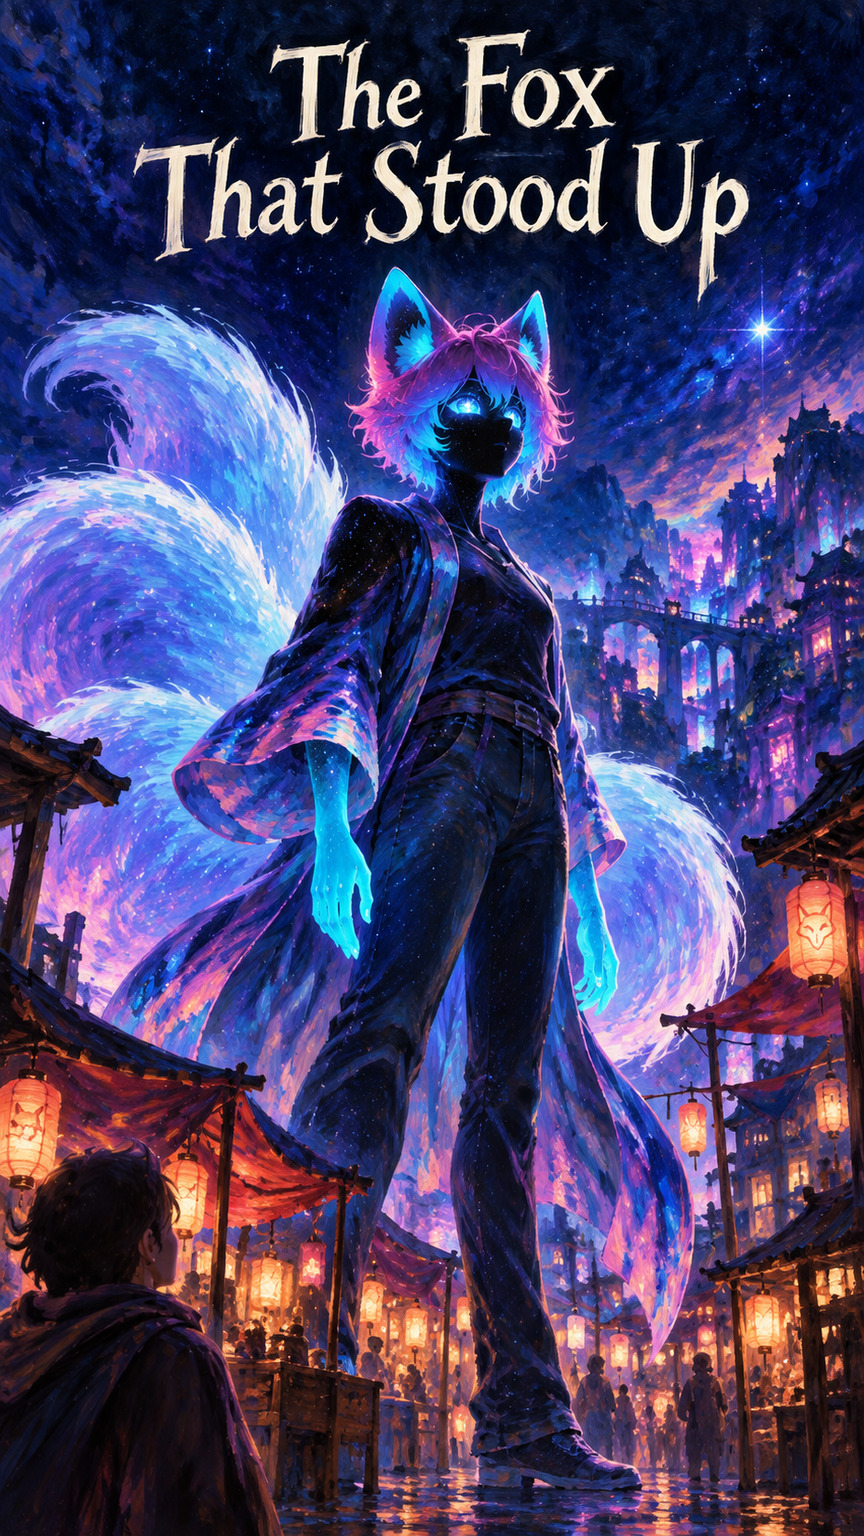
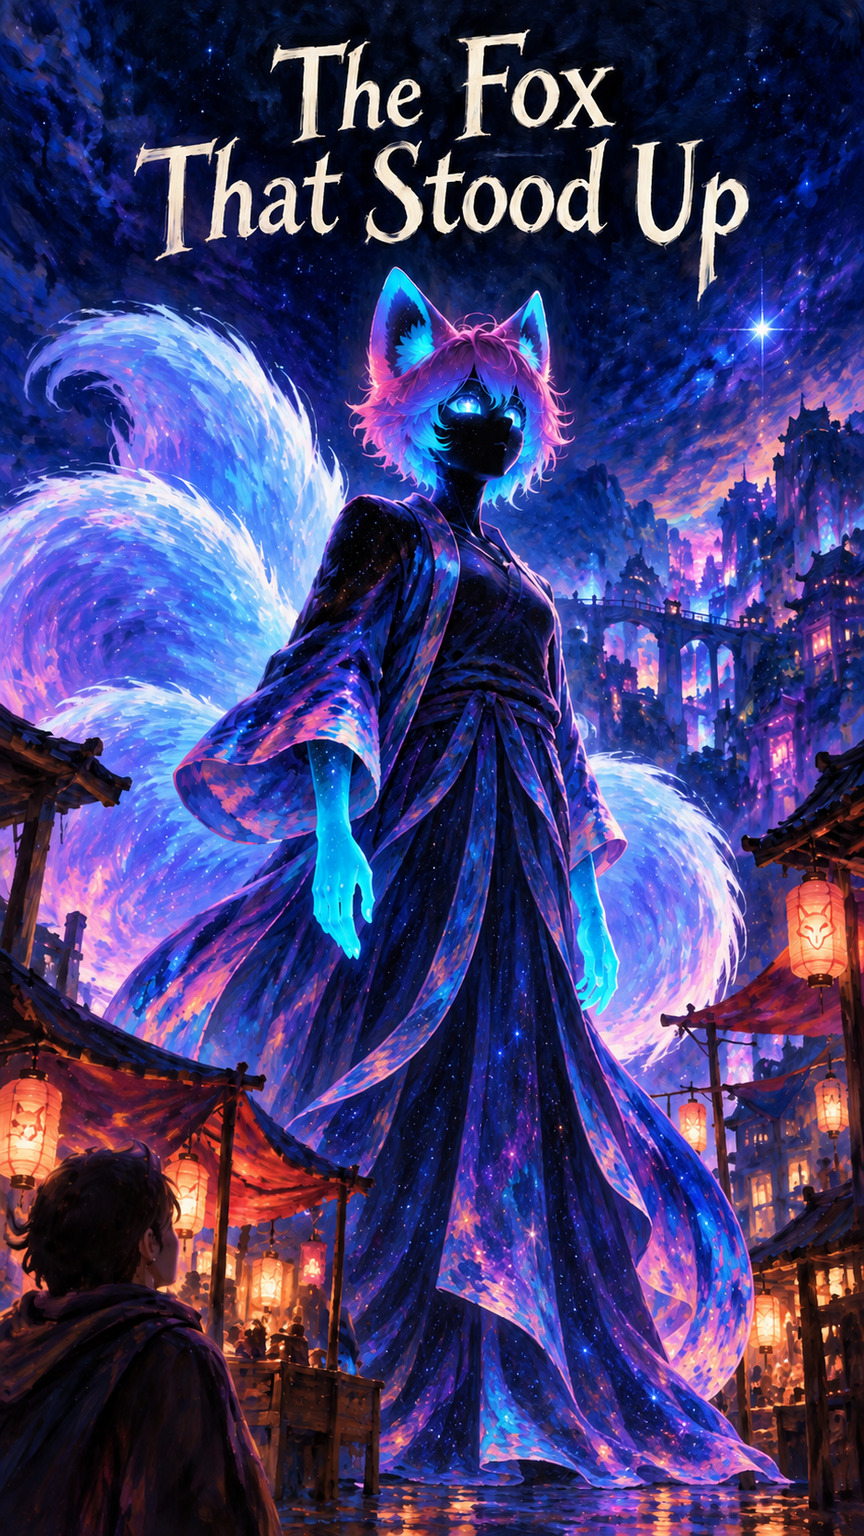
Keep Mica robe and replace cover trousers

diff --git a/stories/the-fox-that-stood-up/notes.md b/stories/the-fox-that-stood-up/notes.md
@@ -15,3 +15,5 @@ Fresh final first reads, before discussion: the new Codex reader cared most abou
 In final discussion, the Codex reader accepted the cook/counter ambiguity as a real risk and withdrew the request for a stronger ending after tracing the narrator's empty-cuff fear and Mica's independent return. Claude re-tested the pivot and withdrew its broad physical-logic objection, while endorsing the standing silhouette and a small position anchor. The writer favored the restrained ending: the narrator already trusts Mica, so an added epiphany would misstate the change. I agree; the movement from an automatic offered cuff to Mica choosing the vendor and then resting outside it is legible and properly quiet. Commits `b2ae5ac8` and `4788409d` place the cook beside the left support, show Mica fully upright, clarify the boot brace and the sign's single controlled descent, and resolve the pronoun collision. Both fresh readers checked the local changes against the whole story; the coordinator reread the final mechanical correction. Neither found a remaining material concern.
 
 Ready for review: the narrator's life is plainly threatened, the lifelong small light fox becomes the supplied reference's dark-faced, star-eyed, blue-and-rose personlike form, and Mica's psychic hold matters to both the rescue and their relationship. The augments affect who can witness Mica; the future market has lived texture. The sign, people, bird, and brace remain in consistent places through the action. “Mica” has no conflicting entry in the checked shared name/universe files. The story introduces no shared-universe fact or canon status. The selected 864×1536 cover was inspected at final size: the exact title appears once, the standing fox and hands are coherent, and its eyes, ears, colors and tails answer [Image #1].
+
+Cover correction: the user liked Mica's flowing robe but found the ordinary pants wrong. A revised cover keeps the robe's sleeves and replaces the belt, trousers, and shoes with one long starry robe. The selected JPEG was inspected at 864×1536: the title remains legible once, and Mica's ears, eyes, hands, tails, and market setting remain clear. The superseded cover stays in Git history; rejected generated candidates remain outside the story package.
